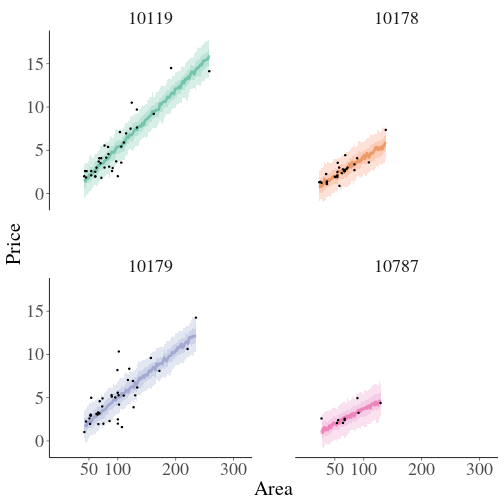
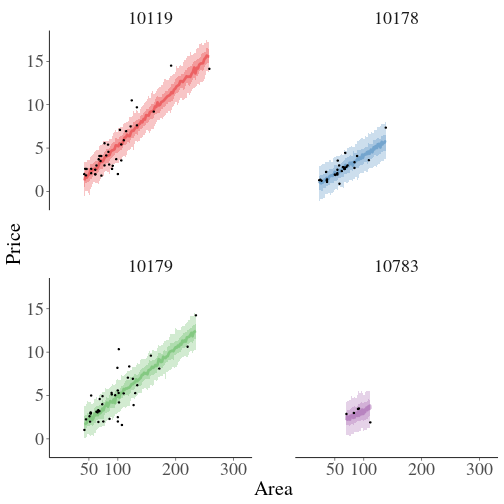
update prior analysis

diff --git a/Estimating-Houseprices-with-rstanarm.html b/Estimating-Houseprices-with-rstanarm.html
@@ -4,7 +4,7 @@
     <title>Estimating Berlin House Prices using rstanarm</title>
     <meta charset="utf-8">
     <meta name="author" content="Corrie Bartelheimer     Europace" />
-    <meta name="date" content="2019-01-24" />
+    <meta name="date" content="2019-04-17" />
     <link href="libs/remark-css-0.0.1/default.css" rel="stylesheet" />
     <link href="libs/remark-css-0.0.1/default-fonts.css" rel="stylesheet" />
     <link href="libs/font-awesome-5.3.1/css/fontawesome-all.min.css" rel="stylesheet" />
@@ -15,7 +15,7 @@ class: center, middle, inverse, title-slide
 
 # Estimating Berlin House Prices using rstanarm
 ### Corrie Bartelheimer <br /> <br /> Europace
-### January 24, 2019
+### April 17, 2019
 
 ---
 
@@ -107,7 +107,7 @@ mod_simple &lt;- stan_glm( price.s ~  area.s   ,
           data=df.model)
 ```
 
-`price.s` is the price in 100,000s, `area.s` is the standardized living area.
+`price.s` is the price in 100,000€s, `area.s` is the standardized living area.
 ---
 ## What about priors?
 
@@ -155,6 +155,13 @@ default_prior  &lt;- stan_glm( price.s ~ area.s,
 ![](Estimating-Houseprices-with-rstanarm_files/figure-html/prior-plot-weakly-1.png)
 ]
 ---
+## What about priors?
+
+
+.center[
+![](Estimating-Houseprices-with-rstanarm_files/figure-html/prior-line-weakly-1.png)
+]
+---
 
 ## What about priors?
 
@@ -164,9 +171,9 @@ We can of course also fit our own priors:
 ```r
 mod &lt;- stan_lmer( price.s ~  area.s + (1 + area.s | plz)  ,
                 data=df.model,
-                prior_intercept=normal(location=3, scale=3, 
+                prior_intercept=normal(location=3, scale=2.5, 
                                       autoscale = FALSE),
-                prior=normal(location=0, scale=2.5, 
+                prior=normal(location=1, scale=1, 
                                       autoscale=FALSE)) 
 ```
 --
@@ -174,7 +181,13 @@ mod &lt;- stan_lmer( price.s ~  area.s + (1 + area.s | plz)  ,
 .center[
 ![](Estimating-Houseprices-with-rstanarm_files/figure-html/prior-plot-informed-1.png)
 ]
+---
 
+## What about priors?
+
+.center[
+![](Estimating-Houseprices-with-rstanarm_files/figure-html/prior-line-informed-1.png)
+]
 ---
 ## Assessing convergence
 
@@ -235,7 +248,7 @@ elpd_diff        se
 Extract fitted draws
 
 ```r
-mitte &lt;- c("10119", "10178", "10179", "10787")
+mitte &lt;- c("10119", "10178", "10179", "10783")
 library(tidybayes)
 library(modelr)
 df.model %&gt;%
@@ -251,12 +264,12 @@ df.model %&gt;%
 # Groups:   plz, area.s, .row [1]
   plz   area.s  .row .chain .iteration .draw .value
   &lt;chr&gt;  &lt;dbl&gt; &lt;int&gt;  &lt;int&gt;      &lt;int&gt; &lt;int&gt;  &lt;dbl&gt;
-1 10119  -1.16     1     NA         NA     4   1.64
-2 10119  -1.16     1     NA         NA    35   1.77
-3 10119  -1.16     1     NA         NA   195   1.52
-4 10119  -1.16     1     NA         NA   282   1.12
-5 10119  -1.16     1     NA         NA   296   1.64
-6 10119  -1.16     1     NA         NA   318   1.80
+1 10119  -1.16     1     NA         NA   100   1.57
+2 10119  -1.16     1     NA         NA   165   1.54
+3 10119  -1.16     1     NA         NA   231   1.18
+4 10119  -1.16     1     NA         NA   246   1.15
+5 10119  -1.16     1     NA         NA   262   1.26
+6 10119  -1.16     1     NA         NA   323   1.81
 ```
 ---
 
@@ -284,12 +297,12 @@ df.model %&gt;%
 # Groups:   plz, area.s, .row [1]
   plz   area.s  .row .chain .iteration .draw .prediction
   &lt;chr&gt;  &lt;dbl&gt; &lt;int&gt;  &lt;int&gt;      &lt;int&gt; &lt;int&gt;       &lt;dbl&gt;
-1 10119  -1.16     1     NA         NA     1       2.57 
-2 10119  -1.16     1     NA         NA     2       0.185
-3 10119  -1.16     1     NA         NA     3       1.90 
-4 10119  -1.16     1     NA         NA     4       1.92 
-5 10119  -1.16     1     NA         NA     5       1.05 
-6 10119  -1.16     1     NA         NA     6       1.22 
+1 10119  -1.16     1     NA         NA     1       1.26 
+2 10119  -1.16     1     NA         NA     2      -0.283
+3 10119  -1.16     1     NA         NA     3       1.69 
+4 10119  -1.16     1     NA         NA     4       1.17 
+5 10119  -1.16     1     NA         NA     5       2.08 
+6 10119  -1.16     1     NA         NA     6       0.656
 ```
 ---
 ## Analyzing the results &amp; Prediction
@@ -324,7 +337,7 @@ mean( post &lt; 3 )
 ```
 
 ```
-[1] 0.067
+[1] 0.06525
 ```
 --
 
@@ -438,6 +451,9 @@ Posterior Probability that a house of 101sqm has a price less than 300,000€
 
 - RStanArm and co make Bayesian modelling very accessible
 
+--
+  - For more complex models, use RStan or brms
+
 ---
 ## Thank you!
 
@@ -445,7 +461,8 @@ Posterior Probability that a house of 101sqm has a price less than 300,000€
 
 
 - Slides and Code on <i class="fab  fa-github "></i>: 
-[https://github.com/corriebar/Estimating-Houseprices](https://github.com/corriebar/Estimating-Houseprices)
+
+  [https://github.com/corriebar/Estimating-Houseprices](https://github.com/corriebar/Estimating-Houseprices)
 
 
 - <i class="fab  fa-twitter "></i> [@corrieaar](https://twitter.com/corrieaar)
